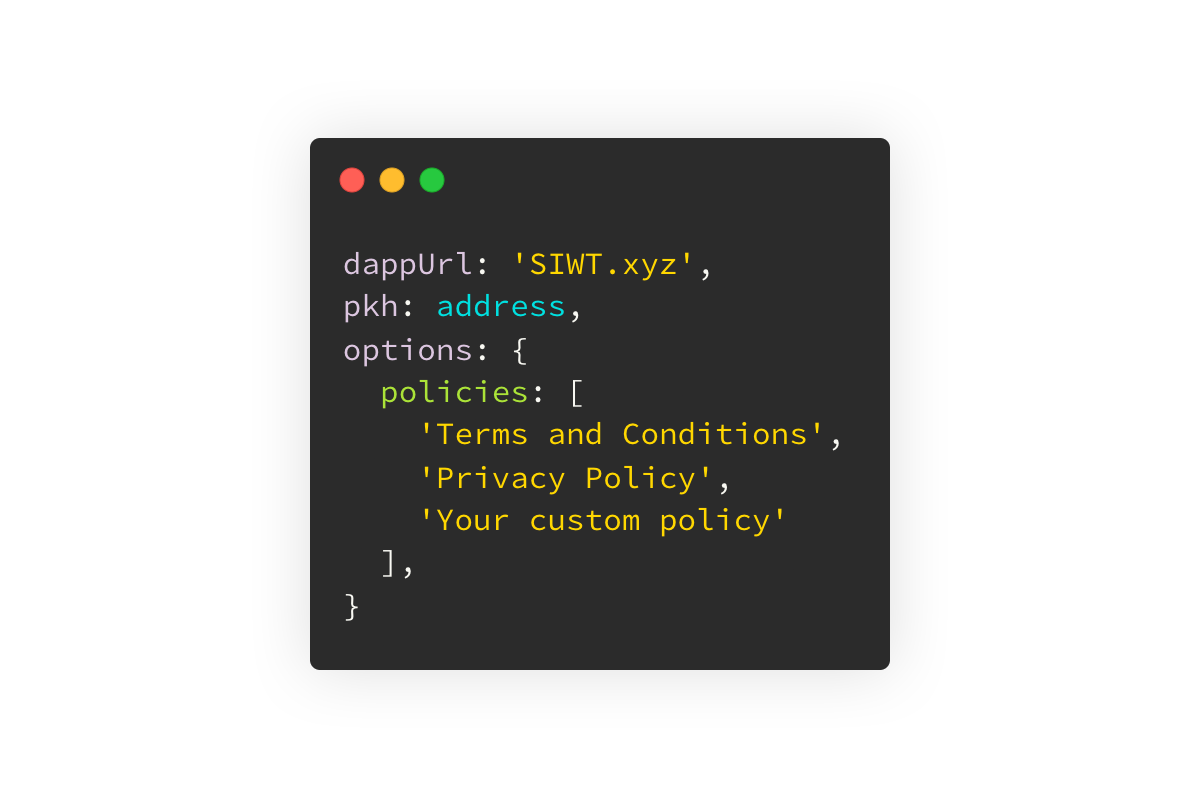
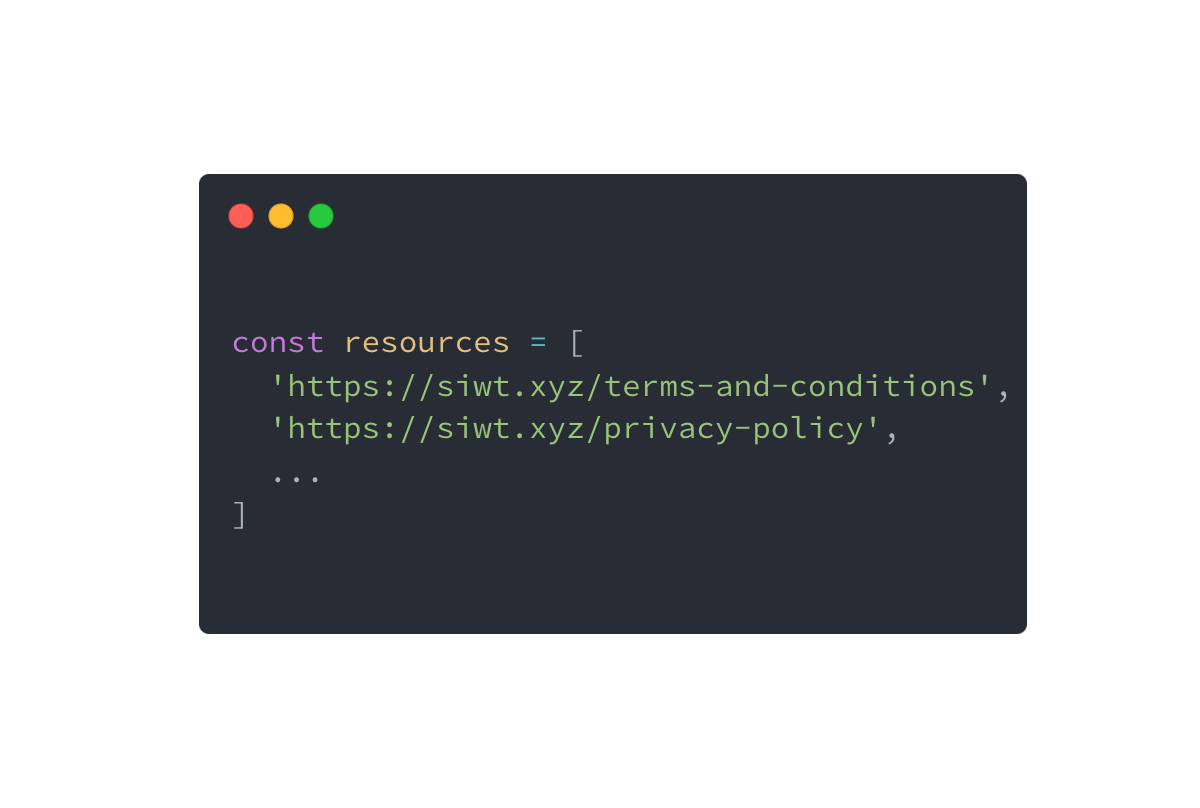
refactor(siwt.xyz): images and responsiveness

diff --git a/packages/siwt.xyz/components/PrimaryFeatures/PrimaryFeatures.tsx b/packages/siwt.xyz/components/PrimaryFeatures/PrimaryFeatures.tsx
@@ -15,6 +15,7 @@ const features = [
     title: 'Standardized message signing',
     description: 'Verify ownership by having your users sign a message.',
     image: '/images/signing.png',
+    imageSmall: '/images/signing-mobile.png'
   },
   {
     title: 'Agreement to usage policies',
@@ -117,13 +118,24 @@ export function PrimaryFeatures() {
                         {feature.description}
                       </p>
                     </div>
-                    <div className="mt-10 w-[45rem] overflow-hidden rounded-xl bg-slate-50 shadow-xl shadow-blue-900/20 sm:w-auto lg:mt-0 lg:w-[67.8125rem]">
+                    <div className="mt-10 overflow-hidden rounded-xl bg-slate-50 shadow-xl shadow-blue-900/20 sm:w-auto lg:mt-0 lg:w-[67.8125rem]">
+                      
                       <Image
-                        className="w-full"
+                        className="w-full lg:hidden"
+                        src={feature.imageSmall ?? feature.image}
+                        alt=""
+                        priority
+                        sizes="(min-width: 1024px) 67.8125rem, (min-width: 640px) 100vw, 100%"
+                        width={1920}
+                        height={1080}
+                      />
+                      
+                      <Image
+                        className="hidden lg:block w-full"
                         src={feature.image}
                         alt=""
                         priority
-                        sizes="(min-width: 1024px) 67.8125rem, (min-width: 640px) 100vw, 45rem"
+                        sizes="(min-width: 1024px) 67.8125rem, (min-width: 640px) 100vw, 100%"
                         width={1920}
                         height={1080}
                       />

diff --git a/packages/siwt.xyz/components/Footer/Footer.tsx b/packages/siwt.xyz/components/Footer/Footer.tsx
@@ -16,25 +16,25 @@ export const Footer = () => {
   return (
     <footer className="bg-slate-50">
       <Container>
-        <div className="py-16 flex flex-row w-full justify-between items-center">
-          <div className="w-1/3">
+        <div className="py-16 flex flex-col md:flex-row w-full justify-between md:items-center">
+          <div className="md:w-1/3 h-16">
             <Link href="/">
               <Logo />
             </Link>
           </div>
-          <div className="w-1/3">
-            <nav className="-mt-6 text-sm" aria-label="quick links">
-              <div className="-my-1 flex justify-center gap-x-6">
+          <div className="md:w-1/3">
+            <nav className="md:-mt-6 text-sm" aria-label="quick links">
+              <div className="-my-1 flex flex-col md:flex-row md:justify-center md:gap-x-6">
                 <NavLink href="/try">Try it out</NavLink>
                 <NavLink href="https://docs.siwt.xyz">Get Started</NavLink>
               </div>
             </nav>
           </div>
-          <div className="w-1/3 text-center">
+          <div className="md:w-1/3 md:text-center mt-6 md:mt-0">
             <p className="font-display text-base text-slate-900">Development supported by:</p>
             <ul
               role="list"
-              className="mt-2 flex items-center justify-center gap-x-8 sm:flex-col sm:gap-x-0 sm:gap-y-10 xl:flex-row xl:gap-x-12 xl:gap-y-0"
+              className="mt-2 flex md:items-center md:justify-center gap-x-8 sm:flex-col sm:gap-x-0 sm:gap-y-10 xl:flex-row xl:gap-x-12 xl:gap-y-0"
             >
               {[[{ name: 'The Tezos Foundation', logo: TFLogo }]].map((group, groupIndex) => (
                 <li key={groupIndex}>

diff --git a/packages/siwt.xyz/components/NavLink/NavLink.tsx b/packages/siwt.xyz/components/NavLink/NavLink.tsx
@@ -17,7 +17,7 @@ export const NavLink: FC<NavLinkProps> = ({ href, children, className = '' }) =>
   <Link
     href={href}
     className={clsx(
-      'inline-block rounded-lg py-1 px-2 text-sm text-slate-700 hover:bg-slate-100 hover:text-slate-900',
+      'inline-block rounded-lg py-1 md:px-2 text-sm text-slate-700 hover:bg-slate-100 hover:text-slate-900',
       className,
     )}
   >
